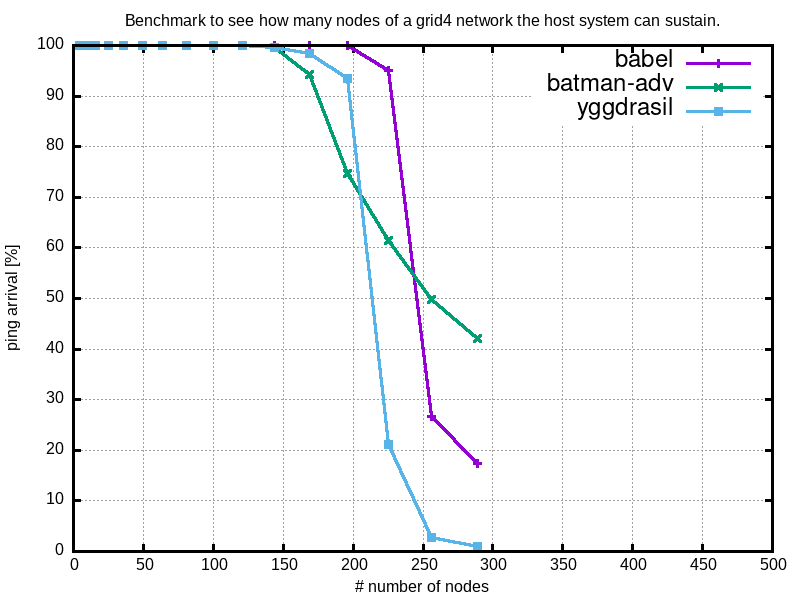
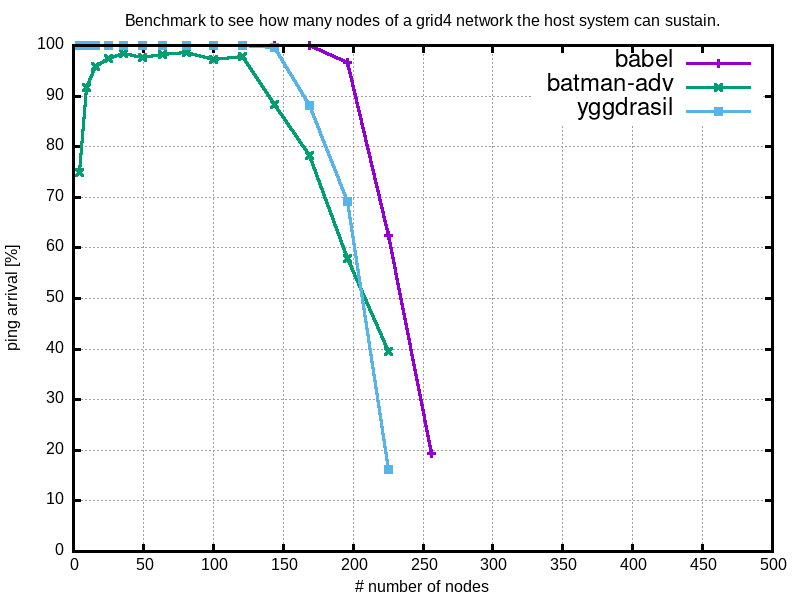
results: update benchmark1 data

diff --git a/results/README.md b/results/README.md
@@ -36,12 +36,15 @@ An overview of the tested topologies can be found [here](../data/README.md).
 
 ## Benchmark1 Test
 
-Laptop
+A test to figure out how many nodes the host system can enumlate.
+
 ![image](laptop/benchmark1/1_benchmark1.png)
+![image](server/benchmark1/1_benchmark1.png)
 
 Notes:
 
-- max. 140 nodes to emulate make sense on the laptop
+- max. 140 nodes for the laptop
+- max. 220 nodes for the server
 
 ## Convergence1 Test
 
